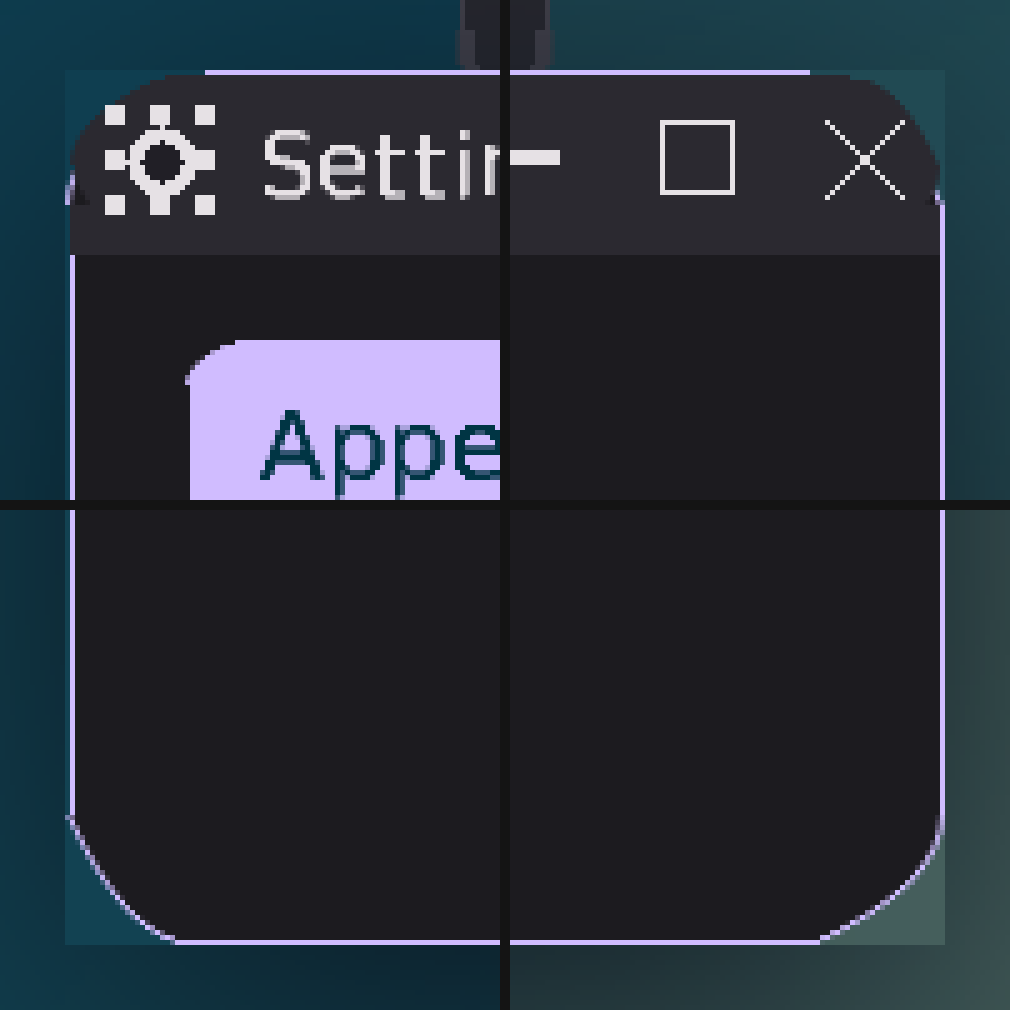
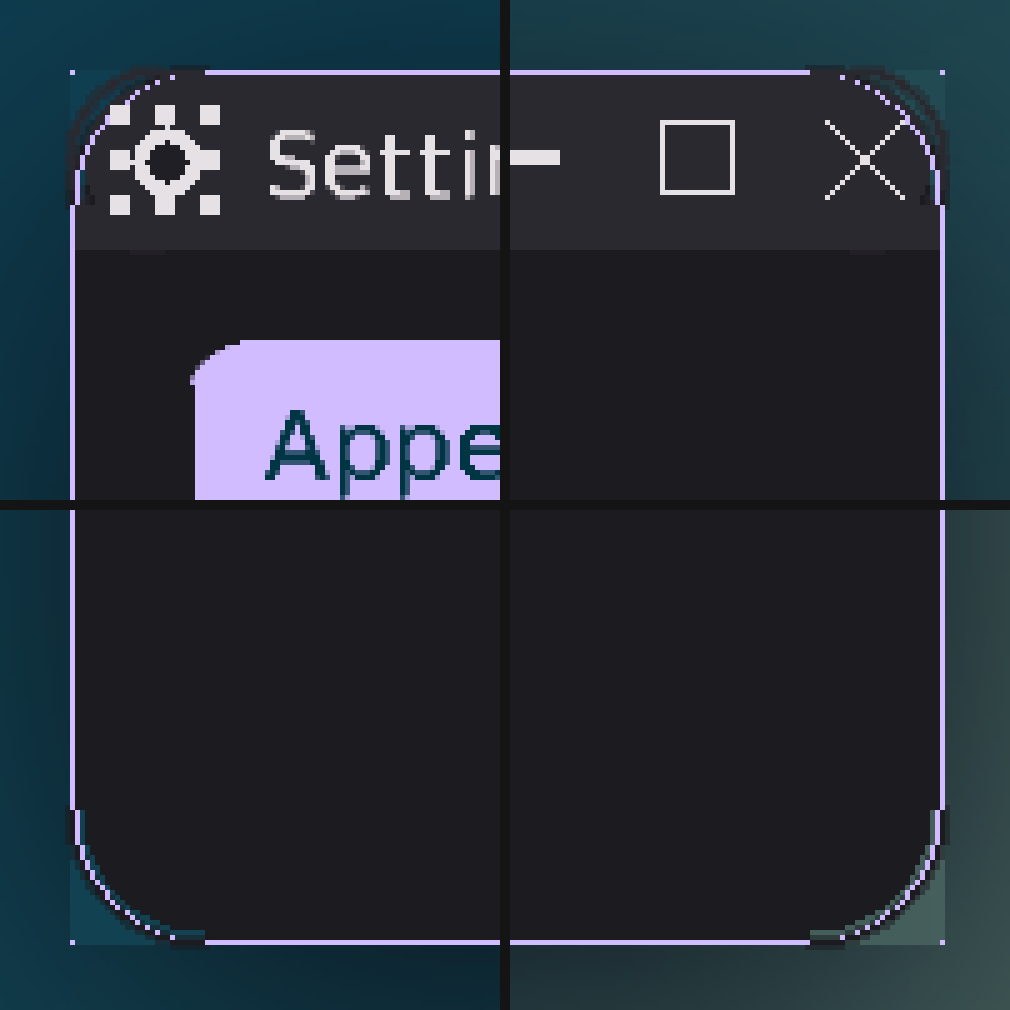
OBS-03 窗口圆角重做：圆方程 AA 填充 + 1px 逐行描边（关闭）
v0.59.1 的 vg 方案（68c6fb3）被放大核对否决：弧与直边接缝有缝、
角外有直角残块。回炉后统一到圆方程，窗口与投影掩膜同源。

- hpdesk: 新增 hs_window_corner_radius / hs_round_inset / hs_stroke_round；
  背景与标题栏改走 gfx64_fill_round_rect_aa，标题栏底部整宽 fill_rect；
  边框改 hs_stroke_round 逐行 1px（逐列限 x∈[r,w-1-r]）
- gfx64: 新增 gfx64_fill_round_rect_aa（圆方程 + SDF AA）；
  修 gfx64_draw_rounded_rect 的 1px 坐标错位
- vg64: vg_stroke_round_rect 改为与 vg_fill_round_rect 同一条贝塞尔路径

坑：vg 贝塞尔与圆方程不是同一条曲线（45 度处差 0.43px）；
角区逐列按 inset 画得到的是 45 度斜线；标题栏第二笔左右各漏 1px。

实测：四角 5x 放大逐角核对弧连续、1px 均匀、填充无锯齿、阴影贴合；
回归 3/3 全绿，内核 881368 B。

diff --git a/kernel/arch/x86_64/hpdesk.c b/kernel/arch/x86_64/hpdesk.c
@@ -50,10 +50,12 @@ static int g_sw_order[HS_MAX_WINDOWS];
 
 /* 外部函数 */
 extern void gfx64_fill_rect(int x, int y, int w, int h, uint32_t color);
+extern void gfx64_put_pixel(int x, int y, uint32_t color);
 extern void gfx64_draw_rect(int x, int y, int w, int h, uint32_t color);
 extern void gfx64_fill_rounded_rect(int x, int y, int w, int h, int radius, uint32_t color);
 extern void gfx64_draw_rounded_rect(int x, int y, int w, int h, int radius, uint32_t color);
 extern void vg_stroke_round_rect(int x, int y, int w, int h, int r, int width, uint32_t color);
+extern void gfx64_fill_round_rect_aa(int x, int y, int w, int h, int radius, uint32_t color);
 extern void gfx64_blur_region(int x, int y, int w, int h, int blur_radius, uint32_t overlay_color, int overlay_alpha);
 extern void gfx64_fill_circle_gradient(int cx, int cy, int r, uint32_t c1, uint32_t c2);
 extern uint32_t gfx64_get_pixel(int x, int y);
@@ -2055,6 +2057,64 @@ static int hs_window_corner_radius(const hs_window_t *w)
     return rc;
 }
 
+/* OBS-03: 窗口圆角的统一几何 —— 圆心在 (x+r, y+r)，判定 d2 <= r^2，
+ * 与投影掩膜 sh_in_rounded() 完全同一套。逐行/逐列算"圆内最外侧像素"的
+ * 水平内缩量，填充与描边共用这张表，所以：
+ *   · 窗口背景与边框是同一条曲线（不会露壁纸缝）
+ *   · 边框 1px 线逐行连续（不会像 SDF 环带那样在 45 度处断成缺口，
+ *     也不会与直边重叠出 2px 粗块）
+ *   · 与阴影掩膜的曲线也一致（内缩量逐像素相同）
+ * isqrt 只在半径变化时算一遍，建成查表。 */
+static int g_inset_r = -1;
+static int g_inset_tbl[260];
+
+static int hs_round_inset(int dy, int r)
+{
+    extern uint32_t math64_isqrt(uint32_t v);
+    if (r > 255) r = 255;
+    if (dy < 0) dy = -dy;
+    if (dy >= r) return 0;
+    if (g_inset_r != r) {
+        for (int i = 0; i <= r; i++) {
+            int v = r * r - i * i;
+            if (v < 0) v = 0;
+            g_inset_tbl[i] = r - (int)math64_isqrt((uint32_t)v);
+        }
+        g_inset_r = r;
+    }
+    return g_inset_tbl[dy];
+}
+
+/* 圆角矩形 1px 描边 —— 画"圆内最外侧"那一圈像素 */
+static void hs_stroke_round(int x, int y, int w, int h, int r, uint32_t color)
+{
+    extern void gfx64_put_pixel(int x, int y, uint32_t color);
+    if (w <= 0 || h <= 0) return;
+    if (r > w / 2) r = w / 2;
+    if (r > h / 2) r = h / 2;
+    if (r <= 0) {
+        extern void gfx64_draw_rect(int x, int y, int w, int h, uint32_t color);
+        gfx64_draw_rect(x, y, w, h, color);
+        return;
+    }
+    for (int yy = 0; yy < h; yy++) {
+        int dy = 0;
+        if (yy < r)              dy = r - yy;
+        else if (yy > h - 1 - r) dy = yy - (h - 1 - r);
+        int inset = dy ? hs_round_inset(dy, r) : 0;
+        if (w - 2 * inset <= 0) continue;
+        gfx64_put_pixel(x + inset, y + yy, color);
+        gfx64_put_pixel(x + w - 1 - inset, y + yy, color);
+    }
+    /* 上下两条直边只画中段：圆角区（x < r 或 x > w-1-r）若也按 inset 画，
+     * 得到的是从角点出发的 45 度斜线（因为那里边界是圆弧，不是水平线），
+     * 会在角外拖出一条斜痕。圆角区的像素已经由上面的逐行左右边界覆盖完了。 */
+    for (int xx = r; xx <= w - 1 - r; xx++) {
+        gfx64_put_pixel(x + xx, y, color);
+        gfx64_put_pixel(x + xx, y + h - 1, color);
+    }
+}
+
 static void hs_window_shadow(const hs_window_t *w)
 {
     if (w->width <= 0 || w->height <= 0) return;
@@ -2137,10 +2197,7 @@ void hs_window_render_all(void)
         if (w->type == HS_WINDOW_FLOATING && w->state != HS_WINDOW_STATE_MAXIMIZED)
             wrc = hs_window_corner_radius(w);
         if (wrc > 0) {
-            uint32_t brd = w->focus ? g_shell.colors.accent : w->border_color;
-            gfx64_fill_rounded_rect(w->x, w->y, w->width, w->height, wrc, brd);
-            gfx64_fill_rounded_rect(w->x + 1, w->y + 1, w->width - 2, w->height - 2,
-                                    wrc - 1, w->bg_color);
+            gfx64_fill_round_rect_aa(w->x, w->y, w->width, w->height, wrc, w->bg_color);
         } else {
             gfx64_fill_rect(w->x, w->y, w->width, w->height, w->bg_color);
         }
@@ -2152,11 +2209,11 @@ void hs_window_render_all(void)
             int th = hs_sy(24);
             /* OBS-03: 标题栏顶部两角跟随窗口圆角，底部两角保持直角（贴内容区） */
             if (wrc > 0) {
-                int trc = (wrc - 1) < th ? (wrc - 1) : th;
-                gfx64_fill_rounded_rect(w->x + 1, w->y + 1, w->width - 2, th, trc,
-                                        g_shell.colors.titlebar_bg);
+                int trc = wrc < th ? wrc : th;
+                gfx64_fill_round_rect_aa(w->x, w->y, w->width, th, trc,
+                                         g_shell.colors.titlebar_bg);
                 if (th > trc)
-                    gfx64_fill_rect(w->x + 1, w->y + 1 + trc, w->width - 2, th - trc,
+                    gfx64_fill_rect(w->x, w->y + trc, w->width, th - trc,
                                     g_shell.colors.titlebar_bg);
             } else {
                 gfx64_fill_rect(w->x, w->y, w->width, th,
@@ -2207,8 +2264,9 @@ void hs_window_render_all(void)
         /* 边框 */
         uint32_t border = w->focus ?
                           g_shell.colors.accent : w->border_color;
-        /* 圆角窗口的边框已由上面「外圈+内缩」两笔填充成形，这里只处理直角窗口 */
-        if (wrc == 0)
+        if (wrc > 0)
+            hs_stroke_round(w->x, w->y, w->width, w->height, wrc, border);
+        else
             gfx64_draw_rect(w->x, w->y, w->width, w->height, border);
 
         /* 标题（跟随主题前景色） */

diff --git a/kernel/arch/x86_64/gfx64.c b/kernel/arch/x86_64/gfx64.c
@@ -740,6 +740,30 @@ void gfx64_fill_rounded_rect(int x, int y, int w, int h, int radius, uint32_t co
     vg_fill_round_rect(x, y, w, h, radius, color);
 }
 
+/* OBS-03: 圆角填充（圆方程 + 边缘 AA）
+ * 与 gfx64_draw_rounded_rect 共用 rounded_corner_aa，填充与描边因此是同一条
+ * 曲线 —— 窗口背景和它自己的边框不会各走各的。 */
+void gfx64_fill_round_rect_aa(int x, int y, int w, int h, int radius, uint32_t color)
+{
+    if (!gfx_initialized) return;
+    if (w <= 0 || h <= 0) return;
+    if (radius < 0) radius = 0;
+    if (radius > w / 2) radius = w / 2;
+    if (radius > h / 2) radius = h / 2;
+    if (radius == 0) { gfx64_fill_rect(x, y, w, h, color); return; }
+
+    /* 中间竖条 + 左右两条 */
+    gfx64_fill_rect(x + radius, y, w - 2 * radius, h, color);
+    gfx64_fill_rect(x, y + radius, radius, h - 2 * radius, color);
+    gfx64_fill_rect(x + w - radius, y + radius, radius, h - 2 * radius, color);
+
+    /* 四角（以末像素坐标定位圆心，与描边保持一致） */
+    rounded_corner_aa(x + radius,         y + radius,         -radius - 2, 0, -radius - 2, 0, radius, color, 1);
+    rounded_corner_aa(x + w - 1 - radius, y + radius,         0, radius + 2, -radius - 2, 0, radius, color, 1);
+    rounded_corner_aa(x + radius,         y + h - 1 - radius, -radius - 2, 0, 0, radius + 2, radius, color, 1);
+    rounded_corner_aa(x + w - 1 - radius, y + h - 1 - radius, 0, radius + 2, 0, radius + 2, radius, color, 1);
+}
+
 /* 绘制圆角矩形边框（V0.13.3 AA角） */
 void gfx64_draw_rounded_rect(int x, int y, int w, int h, int radius, uint32_t color)
 {
